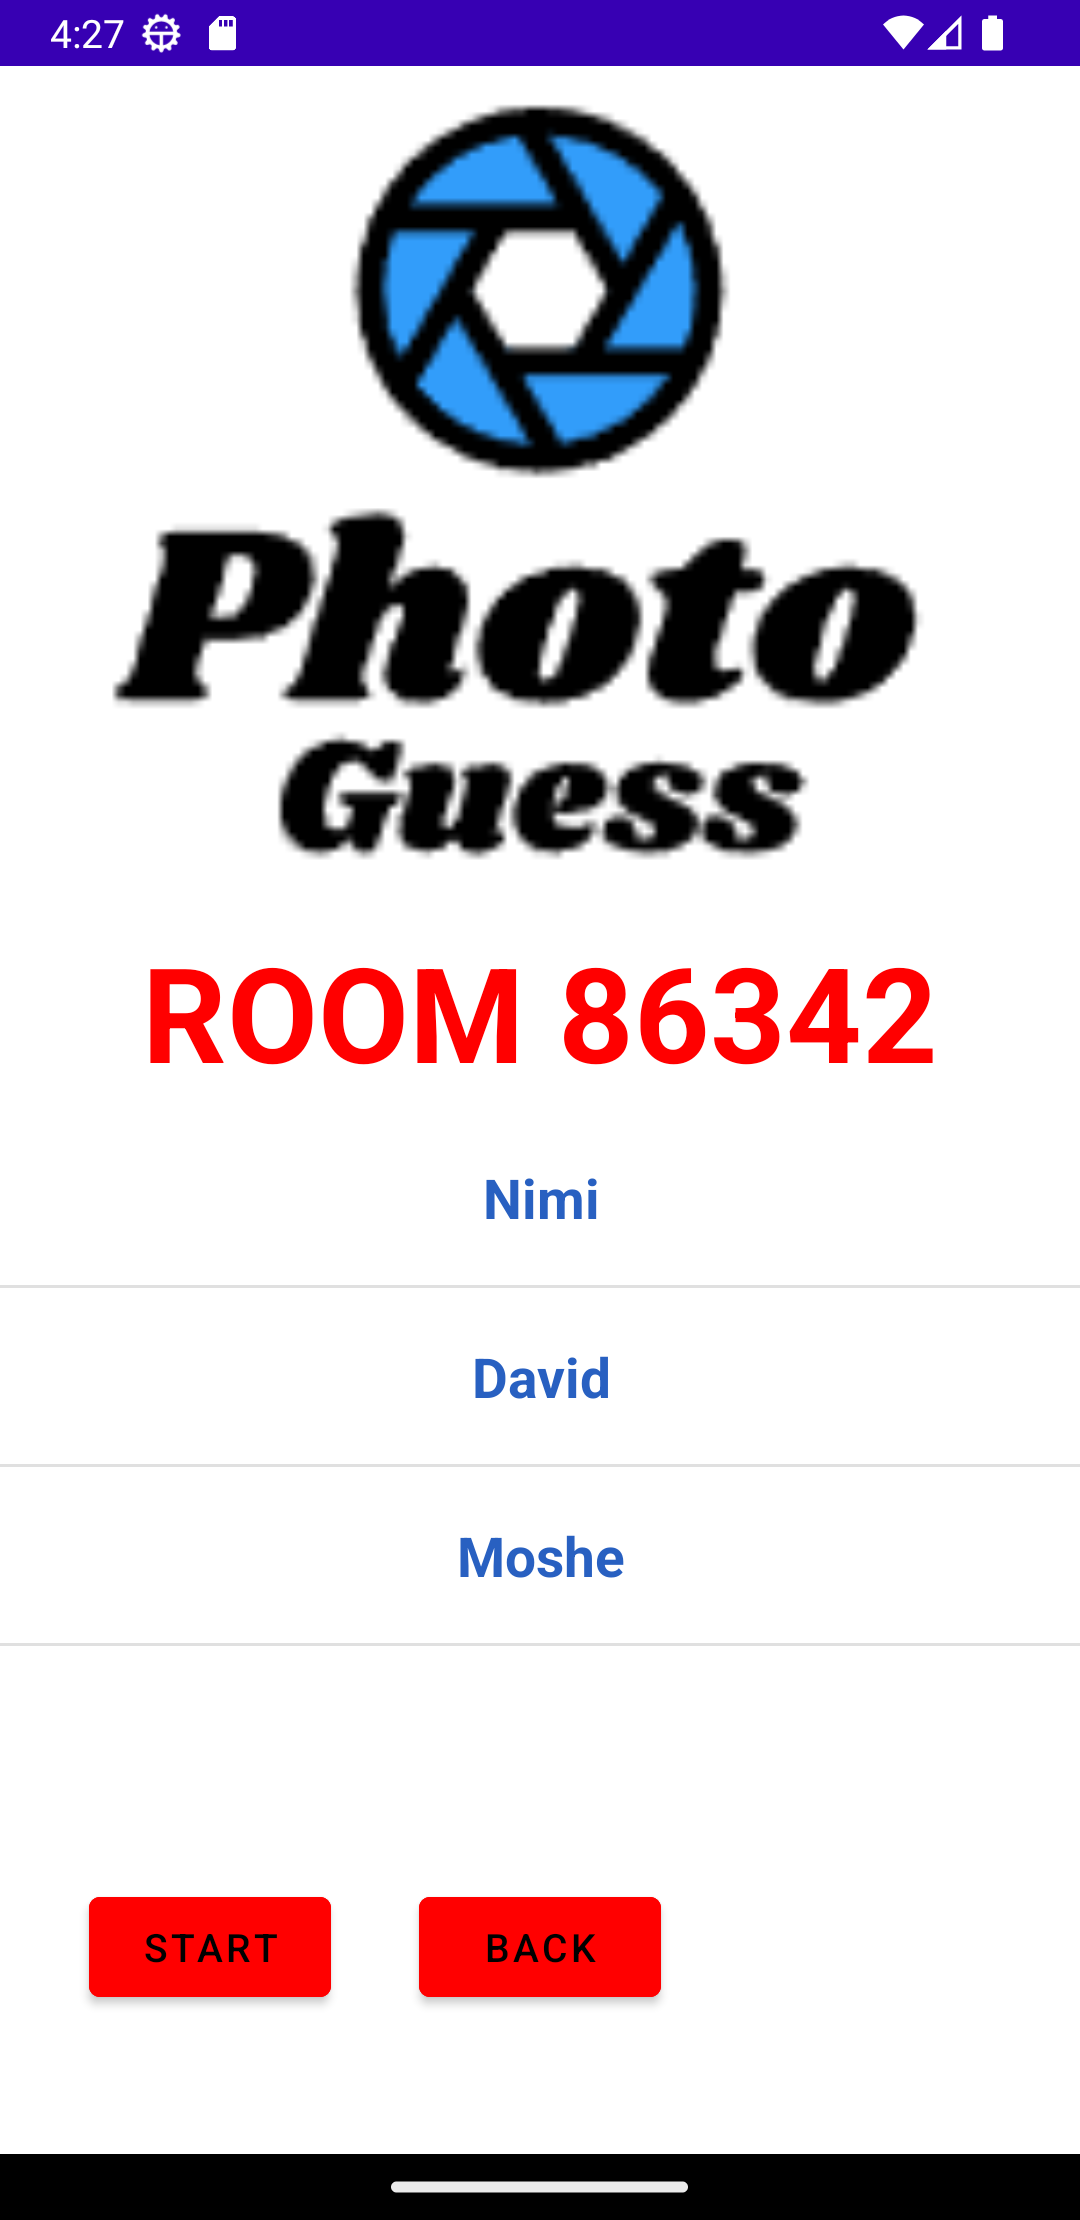
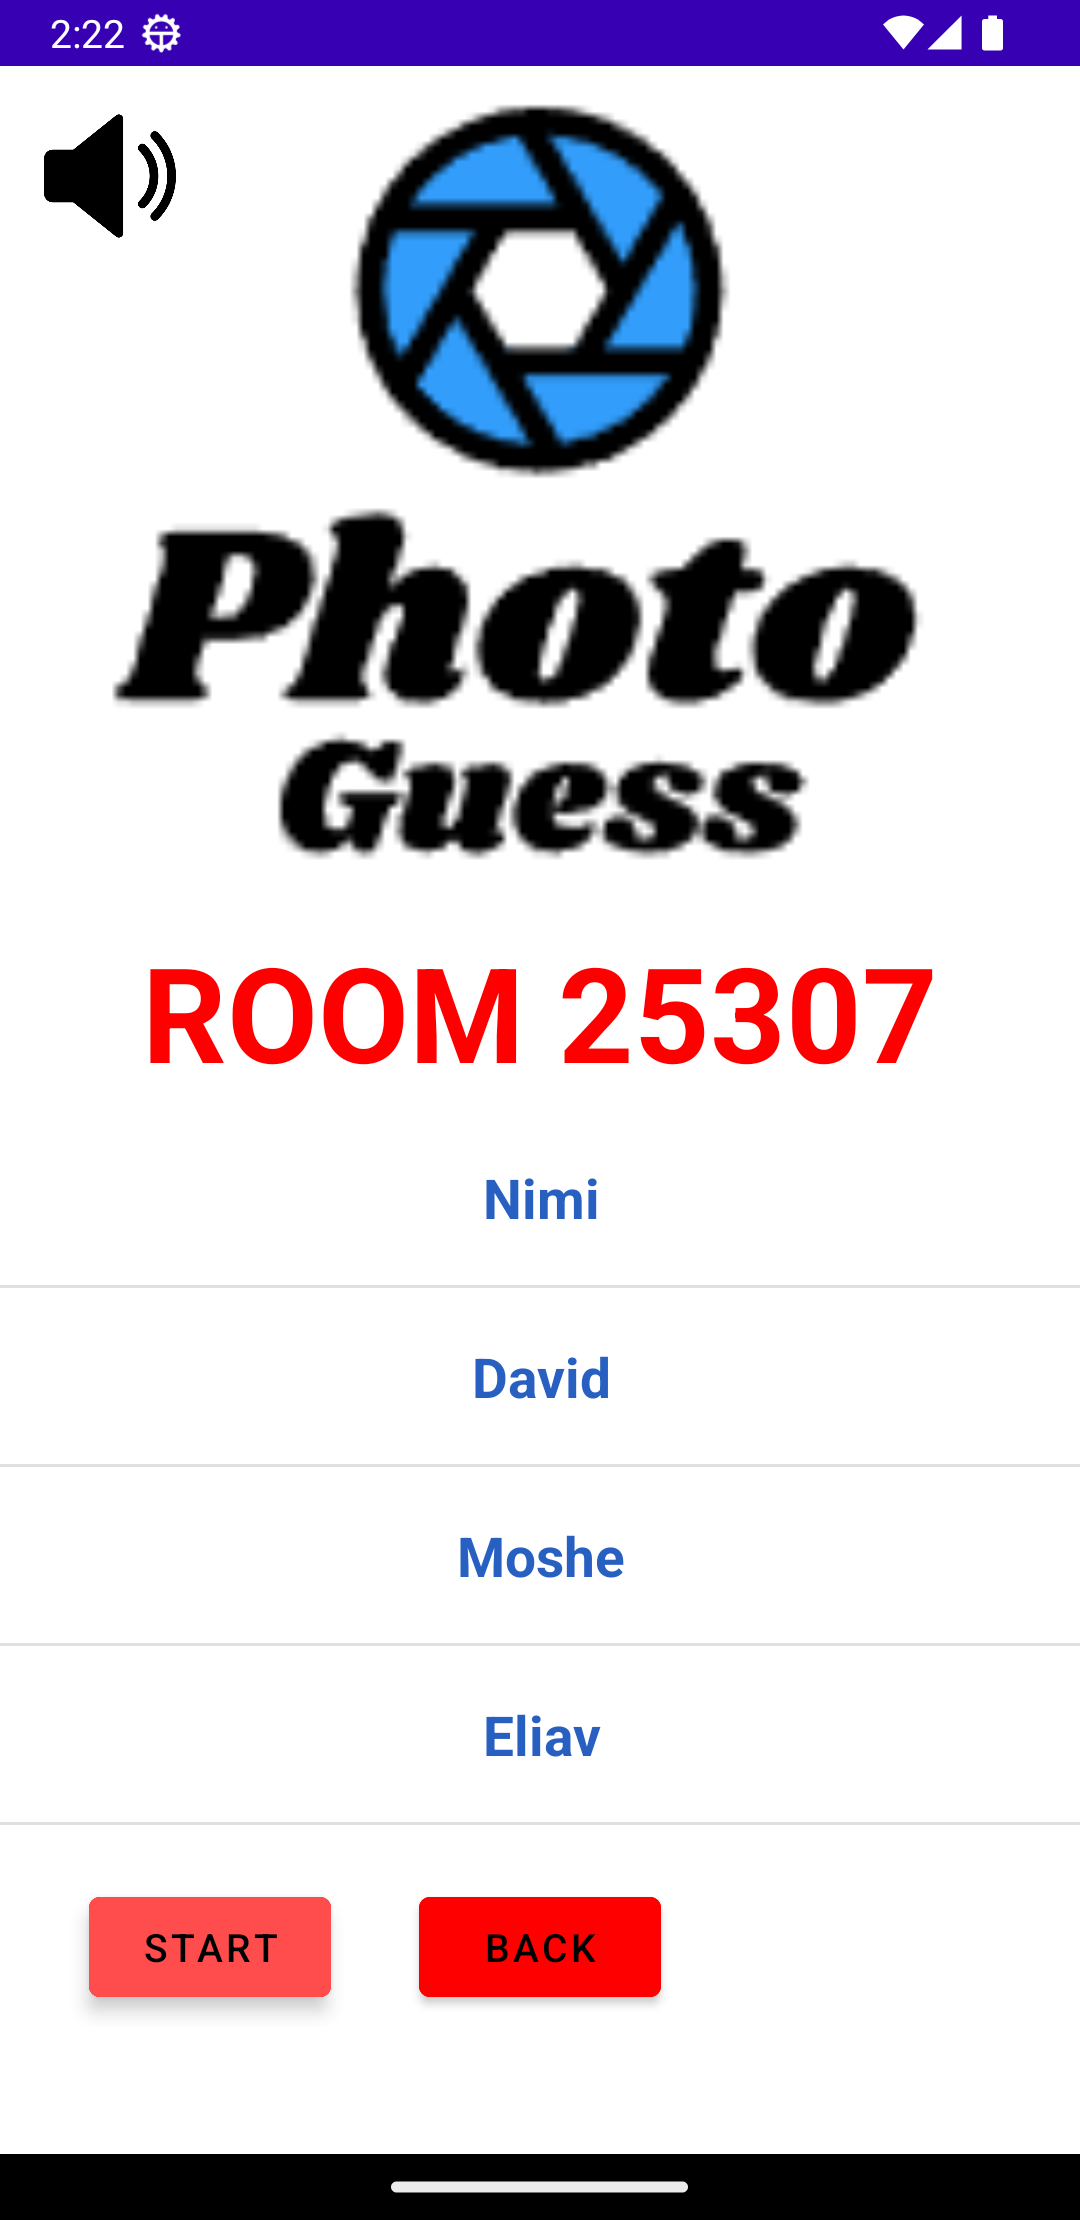
Gameover works properly

diff --git a/app/src/main/java/com/example/photoguess/view/PhotoPickerActiveGameFragment.java b/app/src/main/java/com/example/photoguess/view/PhotoPickerActiveGameFragment.java
@@ -234,6 +234,8 @@ public class PhotoPickerActiveGameFragment extends BaseFragment {
         gameController.setPhotoUploader(winner);
         gameThread = new Thread(() -> {
             if (messageStage == 0){
+                gameProgressRef.child("BlurLevel").setValue(0);
+                gameProgressRef.child("CurrentGuess").setValue(photoCaptionText);
                 roomRef.addListenerForSingleValueEvent(new ValueEventListener() {
                     @Override
                     public void onDataChange(@NonNull DataSnapshot snapshot) {
@@ -246,8 +248,6 @@ public class PhotoPickerActiveGameFragment extends BaseFragment {
 
                         } else {
                             roomRef.child("WinnerList").child(winner).setValue(winner);
-                            gameProgressRef.child("BlurLevel").setValue(0);
-                            gameProgressRef.child("CurrentGuess").setValue(photoCaptionText);
                             gameProgressRef.child("MessageBoard")
                                     .setValue(winner + " has won the round!");
                             for (int i = 0; i < playerCount; i++) {

diff --git a/app/src/main/java/com/example/photoguess/model/GameModel.java b/app/src/main/java/com/example/photoguess/model/GameModel.java
@@ -38,8 +38,8 @@ public class GameModel {
     public void setRandomUploader(){
         int random = (int) (Math.random() * playerCount);
 //        roomRef.child("PhotoUploader").setValue(playersArray.get(random));
-        roomRef.child("PhotoUploader").setValue("Liron");
-        photoUploader = "Liron";
+        roomRef.child("PhotoUploader").setValue("Eliav");
+        photoUploader = "Eliav";
 //        photoUploader = playersArray.get(random);
     }
 
